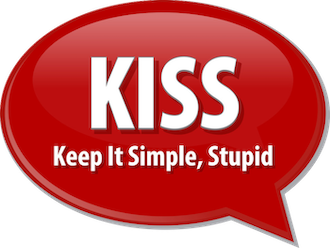
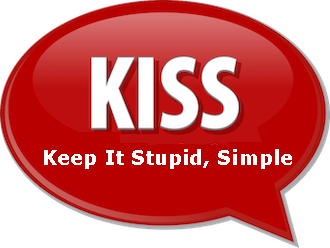
added grid page isotopes

Changed region(s): [[0.1212, 0.5645, 0.9091, 0.7056], [0.303, 0.5081, 0.3333, 0.5645]]

diff --git a/layouts/blog-grid/list.html b/layouts/blog-grid/list.html
@@ -2,98 +2,80 @@
 <html lang="en">
 <head>
     <meta charset="utf-8" />
-    <title>Blog</title>
+    <title>Blog Grid</title>
     <meta name="description" content="" />
     <meta name="viewport" content="width=device-width, initial-scale=1.0" />    
     <!-- CSS Files -->
     <link rel="stylesheet" href="/plugin/bootstrap/css/bootstrap.min.css" />
     <link rel="stylesheet" href="/plugin/font-awesome/css/font-awesome.min.css" />
     <link rel="stylesheet" href="/css/style.css" />
-    <link rel="stylesheet" href="/plugin/animate.min.css" />
+    <link rel="stylesheet" href="/css/animate.min.css" />
 </head>
 <body>
-
-    {{ partial "header.html"  }}
-
+    {{partial "header.html" . }}
+    
     <div class="page-header">
         <div class="container">
             <div class="row">
                 <div class="col-md-7">
-                    <h1>Blog List</h1>
+                    <h1>Blog Grid View</h1>
                 </div>
                 <div class="col-md-5">
                     <ol class="breadcrumb pull-right">
                         <li><a href="/">Home</a></li>
-                        <!--li><a href="#">About</a></li-->
                         <li class="active">Blog</li>
                     </ol>
                 </div>
             </div>
         </div>
     </div>
-
-
-    <section class="content content-light  videos-list videos-list-list">
+    
+    <!-- Video list boxes: grid -->
+    <section class="content content-light  videos-list videos-list-grid">
         <div class="container">
-            {{ partial "category-filter.html" . }}
-            
-            <hr class="invisible" />
-            <hr class="invisible" />
-
-            <div class="isotope-grid">
-                {{ $Paginator := .Paginate (where .Site.RegularPages "Type" "blog") }}
-                {{ range $Paginator.Pages }}
-                <article class="col-md-4 video-item {{ if .Params.categories }}{{ range .Params.categories }} {{ lower . | urlize}} {{ end }} {{ end }}" >
-                    <a href="{{.Permalink}}">
-                        {{ with .Params.featured_image }}<img src="{{ . }}" alt="" class="img-rounded blog-img img" width="300px" height="auto" />{{ end }}
-                    </a>
-                    <h3 class="video-title"><a href="{{.Permalink}}">{{.Title}}</a></h3>
-                    <div class="row video-params">
-                        <div class="col-md-12">
-                            Author: <b>{{.Params.Author}}</b>
-                        </div>
-                    </div>
-                    <div class="row video-params">
-                        <div class="col-md-12">
-                            Date: <b>{{ dateFormat "Jan 2, 2006" .Date }}</b>
-                        </div>
-                    </div>
-                    <div class="row video-params">
-                        <div class="col-md-12">
-                            Category: <b>{{ if .Params.categories }}{{ range .Params.categories }} {{ . }}, {{ end }} {{ end }}</b>
-                        </div>
-                    </div>
-                </article>
-                {{ end }}
+            <div class="pull-right list-view-change">
+                <a href="/blog-grid" class="active"><i class="fa fa-th-large"></i> Grid view</a>
+                <a href="/blog"><i class="fa fa-th-list"></i> List view</a>
             </div>
-
-            {{ $pag := $.Paginator }}
-            {{ if gt $pag.TotalPages 1 }}
-            <ul class="pagination">
-                {{ if $pag.HasPrev }}
-                <li class=""><a href="{{ $pag.Prev.URL }}" ><i class="fa fa-angle-left"></i></a></li>
-                {{ end }}
-                
-                {{ range $pag.Pagers }}
-                {{ if eq . $pag }}
-                <li class="active"><a href="{{ .URL }}">{{ .PageNumber }} <span class="sr-only"></span></a></li>
-                {{ else }}
-                <li><a href="{{ .URL }}">{{ .PageNumber }}</a></li>
-                {{ end }}
-                {{ end }}
-
-                {{ if $pag.HasNext }}
-                <li><a href="{{ $pag.Next.URL }}"><i class="fa fa-angle-right"></i></a></li>
-                {{ end }}
-            </ul>
-            {{ end }}
+            <div class="filter" id="filters">
+                <a class="btn btn-theme navbar-btn btn-orange" data-filter="*">All</a> &nbsp; 
+                {{range $name, $taxonomy := where .Site.Taxonomies.categories "Type" "blog" }}
+                <a class="btn btn-theme navbar-btn btn-lightblue" data-filter=".{{$name}}">{{ humanize $name }}</a>   
+                {{ end }}             
+            </div>
             
-        </div>
+            <hr class="invisible" />
+            <hr class="invisible" />
+
+            <div class="row isotope-grid">
+            {{ range $i,$b := where .Site.RegularPages "Type" "blog" }}
+                <article class="col-md-4 video-item {{ if .Params.categories }}{{ range .Params.categories }} {{ lower . | urlize}} {{ end }} {{ end }}" data-category="{{ if .Params.categories }}{{ range .Params.categories }} {{ lower . | urlize}} {{ end }} {{ end }}">
+                        <a href="{{.Permalink}}">
+                            {{ with .Params.featured_image }}<img src="{{ . }}" alt="" class="img-rounded blog-img img" width="300px" height="auto" />{{ end }}
+                        </a>
+                        <h3 class="video-title"><a href="{{.Permalink}}">{{.Title}}</a></h3>
+                        <div class="row video-params">
+                            <div class="col-md-12">
+                                Author: <b>{{.Params.Author}}</b>
+                            </div>
+                        </div>
+                        <div class="row video-params">
+                            <div class="col-md-12">
+                                Date: <b>{{ dateFormat "Jan 2, 2006" .Date }}</b>
+                            </div>
+                        </div>
+                        <div class="row video-params">
+                            <div class="col-md-12">
+                                Category: <b>{{ if .Params.categories }}{{ range .Params.categories }} {{ . }}, {{ end }} {{ end }}</b>
+                            </div>
+                        </div>
+                </article>  
+            {{ end }}
+            </div>
+        </div>        
     </section>
-
-    {{ partial "footer.html"  }}
-
-
+    
+    {{partial "footer.html" . }}
     <!-- JavaScript Files -->
     <script src="/plugin/jquery-1.10.2.min.js"></script>
     <script src="/plugin/isotope.pkgd.min.js"></script>
@@ -117,7 +99,6 @@
         });   
     </script>
     <script src="/plugin/bootstrap/js/bootstrap.min.js"></script>
-    <script src="/script/animate.js"></script>
     <script src="/plugin/jquery.cuteTime.min.js"></script>
     <script src="/script/script.js"></script>
     <!-- / JavaScript Files -->

diff --git a/layouts/index.html b/layouts/index.html
@@ -6,10 +6,10 @@
     <meta name="description" content="" />
     <meta name="viewport" content="width=device-width, initial-scale=1.0" />    
     <!-- CSS Files -->
-    <link rel="stylesheet" href="plugin/bootstrap/css/bootstrap.min.css" />
-    <link rel="stylesheet" href="plugin/font-awesome/css/font-awesome.min.css" />
-    <link rel="stylesheet" href="css/style.css" />
-    <link rel="stylesheet" href="plugin/animate.min.css" />
+    <link rel="stylesheet" href="/plugin/bootstrap/css/bootstrap.min.css" />
+    <link rel="stylesheet" href="/plugin/font-awesome/css/font-awesome.min.css" />
+    <link rel="stylesheet" href="/css/style.css" />
+    <link rel="stylesheet" href="/plugin/animate.min.css" />
     <!-- / CSS Files -->
 </head>
 <body>
@@ -89,11 +89,11 @@
     
 
     <!-- JavaScript Files -->
-    <script src="plugin/jquery-1.10.2.min.js"></script>
-    <script src="plugin/bootstrap/js/bootstrap.min.js"></script>
-    <script src="script/animate.js"></script>
-    <script src="plugin/jquery.cuteTime.min.js"></script>
-    <script src="script/script.js"></script>
+    <script src="/plugin/jquery-1.10.2.min.js"></script>
+    <script src="/plugin/bootstrap/js/bootstrap.min.js"></script>
+    <script src="/script/animate.js"></script>
+    <script src="/plugin/jquery.cuteTime.min.js"></script>
+    <script src="/script/script.js"></script>
     <!-- / JavaScript Files -->
 </body>
 </html>

diff --git a/layouts/blog/single.html b/layouts/blog/single.html
@@ -43,7 +43,7 @@
                         <header>
                            {{ with .Params.featured_image }} <p class="blog-img"><img src="{{ . }}" alt="" class="img-rounded"  width="617px" height="auto" /></p>{{ end }}
                             <p class="blue-box blog-params">
-                                <span><i class="fa fa-calendar"></i> <time datetime="2013-01-10T21:01">{{ dateFormat "Monday, Jan 2, 2006" .Date }}</time></span>
+                                <span><i class="fa fa-calendar"></i> <time datetime="2013-01-10T21:01">{{ dateFormat "Jan 2, 2006" .Date }}</time></span>
                                 <span><i class="fa fa-user"></i> {{.Params.Author}}</span>
                                 <span><i class="fa fa-tags"></i>{{ if .Params.categories }}{{ range .Params.categories }} {{ . }}, {{ end }} {{ end }}
                             </p>

diff --git a/layouts/_default/single.html b/layouts/_default/single.html
@@ -9,7 +9,7 @@
 	<link rel="stylesheet" href="/plugin/bootstrap/css/bootstrap.min.css" />
 	<link rel="stylesheet" href="/plugin/font-awesome/css/font-awesome.min.css" />
 	<link rel="stylesheet" href="/css/style.css" />
-	<link rel="stylesheet" href="/css/animate.min.css" />
+	<link rel="stylesheet" href="/plugin/animate.min.css" />
 	<!-- / CSS Files -->
 	
     <!-- HTML5 shim and Respond.js IE8 support of HTML5 elements and media queries -->
@@ -44,6 +44,11 @@
     <script src="/plugin/bootstrap/js/bootstrap.min.js"></script>
     <script src="/plugin/jquery.cuteTime.min.js"></script>
     <script src="/script/script.js"></script>
+    <script type="text/javascript">
+     function send() {
+          document.getElementById("contactform").submit();
+        }
+    </script>
     <!-- / JavaScript Files -->
 </body>
 </html>

diff --git a/layouts/partials/header.html b/layouts/partials/header.html
@@ -19,7 +19,8 @@
                             {{ $active = or $active (eq .Name $currentPage.Title) }}
                             {{ $active = or $active (and (eq .Name "Blog") (eq $currentPage.Section "blog")) }}
                             {{ $active = or $active (and (eq .Name "Blog") (eq $currentPage.Section "categories")) }}
-                            <li  class="{{ if $active }} active {{ end }}"><a href="{{ .URL }}">{{ .Name }}</a></li>
+                            {{ $active = or $active (and (eq .Name "Blog") (eq $currentPage.Section "blog-grid")) }}
+                            <li  class="{{ if $active }} active {{ end }}"><a href="{{ .URL }}"><span>{{ .Name }}</span></a></li>
                         {{ end }}
                     </ul>
                 </div>

diff --git a/layouts/partials/category-filter.html b/layouts/partials/category-filter.html
@@ -4,8 +4,8 @@
             </div>
 
             <div class="filter" id="filters">
-                <a class="btn btn-theme navbar-btn btn-orange" href="/blog/">All</a> &nbsp; 
+                <a class="btn btn-theme navbar-btn btn-lightblue" href="/blog/" id="blog/">All</a> &nbsp; 
                 {{range $name, $taxonomy := where .Site.Taxonomies.categories "Type" "blog" }}
-                <a class="btn btn-theme navbar-btn btn-lightblue" href="/blog/categories/{{$name}}/" >{{ humanize $name }}</a>
+                <a class="btn btn-theme navbar-btn btn-lightblue" href="/blog/categories/{{$name}}/" id="blog/categories/{{$name}}/">{{ humanize $name }}</a>
                 {{ end }}               
             </div>

diff --git a/layouts/blog/list.html b/layouts/blog/list.html
@@ -106,11 +106,9 @@
     <script src="/plugin/jquery-1.10.2.min.js"></script>
     <script type="text/javascript">
         jQuery(document).ready(function($) {
-            path = window.location.pathname;
-            console.log("path=",path);
             $('#filters a').each(function() {
-                console.log("href=",$(this).attr("href"));
-                if ($(this).attr("href") == window.location.pathname) {
+                console.log("id=",$(this).attr("id"))
+                if (("/" + $(this).attr("id")) == {{.RelPermalink}} ) {
                     $(this).removeClass('btn-lightblue').addClass('btn-orange');
                 }
             });

diff --git a/content/blog/cooking-daily.md b/content/blog/cooking-daily.md
@@ -1,0 +1,77 @@
+---
+title: "10 Steps to Start a Daily Cooking Habit"
+date: 2014-11-13T04:05:02+05:30
+author: "
+A.D.S"
+featured_image: "/img/blog/cooking-daily.jpg"
+type: "blog"
+categories: ["Cooking"]
+draft: false
+---
+
+<p>It was 2010, I had just gotten out of a long-term relationship. I was a new bachelor, and moved in with a roommate for the first time in my life. Our apartment was in an area of town that is still among my favorites. Great restaurants. Great neighborhood bars and cafes. I didn’t need a car to get around. I lived in that apartment for a year, and it was one of the most fun years of my life.</p>
+<p>If you’ve ever been in a similar situation, though, you can probably guess that it was also the most expensive, and least healthy year of my life.</p>
+<p>One day, after over six months of living together, my roommate came home to unusual sounds in the kitchen.</p>
+<p>“What are you doing?” he asked.
+</p>
+<p>“What does it look like I’m doing? I’m making dinner,” I replied.</p>
+<p>With a bizarre look on his face, my roommate said, “I didn’t even know you knew how to turn on the stove.”
+</p>
+<p>After having lived together for over six months, my roommate didn’t even know I knew how to operate a stovetop. The revelation shocked me as much as him, and suddenly, the hole that seemed to have appeared in my bank account, and the inches that had added themselves to my waistline made sense.</p>
+<p>I knew I needed to make a change. But it didn’t happen over night.</p>
+
+<h2>Why You Should Cook More</h2>
+<p>I have never been an unhealthy eater. I don’t have a sweet tooth, and I don’t avoid green things. As such, even when I wasn’t doing any of my own cooking, I still sought out “good” food. However, as it turns out, no matter how “good” the food you think you’re getting at restaurants, or pre-prepared at the grocery store, is, it can never match the health benefits of anything you cook at home. Pre-prepared foods are loaded with preservatives, and restaurant meals generally use much more salt and fats than you would normally use at home. There’s a number of places where you can read about the benefits of cooking at home, but I’d suggest starting with just about anything by Michael Pollan.
+</p>
+<p>If reading an entire book doesn’t tickle your fancy, check out this short video put together by the RSA, based on Pollan’s work. The video succinctly describes the differences between the way individuals cook, and the way corporations cook.</p>
+
+<h2>How You Can Cook More</h2>
+<p>Answering why you should cook more is easy. And chances are, if you’re reading this, it’s because you already realize that you should be cooking more. The real question for most of us is, how do I get started? Well, that’s why we’re here.</p>
+
+<h3>1. Figure out the real reason you’re not cooking</h3>
+<p>As with most habits, the real work starts with a little bit of introspection. Most people I’ve spoken to who don’t cook cite one of the following two reasons for not cooking: either they don’t have time, or they don’t know how. In 2010, I would have claimed the former. And yet, somehow, years later, with even less free time on my hands, I still manage to eat home cooked meals six days a week.</p>
+<p>No, when I really started thinking about it, the real reason I wasn’t cooking wasn’t that I didn’t have the time, it was that I wasn’t prepared to cook. Before you start cooking, you have to first know what you’re going to cook. And then you have to buy the ingredients that go into that recipe. For the most part, when I wasn’t cooking, I skipped those two steps, and so I would get home, open the cupboards, wonder what to make, and after already having put in a long day at work, I was saddled with the mentally taxing challenge of figuring out what to make with what I had.</p>
+<p>The undue stress of going through that exercise was enough to make me give up, and walk around the corner for a burger or a burrito, or to heat up a frozen pizza.
+You see, the issue wasn’t that I didn’t like to cook, or that I didn’t know how to cook, or even that I didn’t have the time to cook. Rather, the issue was that there were steps leading up to cooking that I just hadn’t done, which made the process of cooking that much more difficult.
+It’s the equivalent of trying to create a daily workout routine, but every day, you need to decide which gym you’re going to go to, what exercises to do, oh, and you’ll need to learn the movements on the fly. No one ever got a six-pack that way.</p>
+
+<h3>2. Address the Issue</h3>
+<p>Now that you know the real reason you’re not cooking on a daily basis, address it. For me, it was just a matter of creating a weekly routine.</p>
+<p>Now, every Saturday, I plan out which meals I’m going to be having for the week, and then write out a grocery list for the coming week. The whole process used to take about twenty minutes when I first started out, but with repetition, I’ve now got it down to less than ten. On Sunday, I’ll head to the grocery store, list in hand, and because I already know what I need to get, can be in and out of the store in under 30 minutes.</p>
+<p>If the issue is the cooking itself, find easy 30-minute recipes. These days, there are so many cooking resources, that recipes have timing, and level of difficulty associated to each. Start with a handful of recipes and repeat them regularly to get the hang of them. That’s how you learn to cook. And keep a library of recipes, that way over time, you don’t need to go scouring the internet for meal ideas, but you can return to your tried, tested and true recipes.</p>
+<p>If you need a little help getting started, you have a few options that exist today that didn’t exist when I first wrote this article 4 years ago. Meal prep services like Blue Apron (and a slew of other ones) do away with the need to find the recipe, plan your week, and do groceries. You get a box every week, and all you need to do is follow instructions. There is no easier way to start building the cooking habit.</p>
+
+<h3>3. Start small</h3>
+<p>As with any new habit, the key is to start small. Most people fail at exercising, because they can’t go from couch potato to an hour in the gym every day right off the bat. That’s normal, you need to work your way up to that level.</p>
+<p>Same for cooking. If you currently don’t cook at all, start off by cooking once per week. Over time, as you get more comfortable, increase to twice a week, and so on. Otherwise, the enormity of changing your habit to go from never cooking at all, to cooking daily will be too much of a shock to your system.
+</p>
+
+<h3>4. Make larger portions and have leftovers</h3>
+<p>Our ancestors didn’t have the luxury of refrigeration. We do. That can cut your cooking time in half for the week.
+When you start off cooking once per week, make enough that you’ll be able to have leftovers for a second day of the week. No, you’re not cooking daily, but suddenly, you are eating homemade meals two out of seven days of the week.</p>	
+<p>Some people recommend cooking for the entire week on Sunday. I’m not a fan of this approach because it gives you such a major block of responsibilities for a single day that you’ll be hesitant to work on it. However, cooking once and eating twice is a really easy way to be a little more efficient.</p>
+
+<h3>5. Grow slowly</h3>
+<p>When you start cooking, you’ll feel like you’re cheating if you’re only cooking once per week, and you’ll want to immediately start trying to cook daily. You’re not cheating, you’re just succumbing to the same reflex that tells us that going to the gym isn’t worth it unless we do it every single day for an hour. In truth, every incremental bit helps.</p>
+<p>So, instead of risking burning out (no pun intended), slowly increase the number of days per week that you’re cooking. Remember that you started with barely ever eating home cooked meals, so even eating them twice per week is already a big win, and every additional step is another win.</p>
+
+<h3>6. Start with food that you enjoy</h3>
+<p>One of the main motivators for cooking at home is getting healthier. Because of this, there’s a tendency to want to launch into your new cooking habit by cooking the healthiest meals you can find. While I won’t discourage healthy cooking, I will say that for most beginners, “healthy” meals are usually not as appetizing as less healthy alternatives. Recall that if you’re used to eating restaurant or pre-prepared food, your tastebuds are used to foods with lots of salts and lots of fats. Moving from that to a diet of Brussels sprouts and lentils is a difficult move.</p>
+<h3>7. Share it with others</h3>
+<p>One of the toughest parts about getting motivated to cook for yourself is cooking for one. Cooking for multiple people encourages you to put in the time to prepare a good and nutritious meal. That doesn’t mean that if you’re single, you should immediately head to a dating site and start looking for a significant other for the sole purpose of cooking for them (although that might be a good dating profile).</p>
+<p>Instead, there are plenty of people in your life who would be happy to share a meal with you. Instead of meeting those people at restaurants or for coffee, like you’re likely already doing, invite them over for dinner and show off your newfound cooking skills. In the beginning, I would suggest inviting over only those that you’re comfortable having some missteps in front of, but as time goes on, your confidence will grow, and you’ll be making new friends all over town when people find out you’ll feed them.</p>
+
+<h3>8. Enjoy the process</h3>
+<p>One of the biggest mental shifts that happened when I went from never cooking, to cooking regularly was that cooking went from a chore, to something I actually enjoyed doing. And as with anything I enjoy doing, I wanted to share my experiences with people. Yes, cooking is a solo activity, but at the same time, foodie culture has become so pervasive, that you can share your cooking with the world, and it can become an activity that you discuss, share and enjoy with friends. So, forget how dorky you feel doing it, and feel free to post that casserole you just made to Instagram, Facebook and anywhere else foodies reside.
+</p>
+
+<h3>9. Appreciate the benefits</h3>
+<p>You know what the biggest motivator of continuing a new habit is? Appreciating the benefits. So, as you get into your habit of cooking at home, make sure you stop at some point to take the time to appreciate all the good that has come of it. Appreciate the look of that slimmer waistline in the mirror. Enjoy the better sleep, increased focus and energy, and general well being that comes with having a healthier diet. And perhaps most rewardingly of all, count the extra dollars in your bank account that have accumulated from no longer eating out all the time!
+</p>
+
+<h3>10. Pass it along</h3>
+<p>Now that you’ve developed this new habit, and you appreciate all the benefits that come with it, what better way to stay motivated than to share your newfound joy with those around you? Cook for them. Teach them how to cook. Share recipes with them. In my experience, no one ever says no to a free meal. The side benefit to this is if the cooking craze catches on in your circle of friends, you will start getting invited over to other people’s places for home cooked meals. Now, you have all the benefits of eating home cooked meals even more often, and even less work to do!</p>
+
+<h2>In short…
+</h2>
+<p>Building a new habit is never easy, and building a habit as complex as cooking is even harder. That said, by breaking it down into a few, smaller, easier to achieve steps, I know you can succeed. After all, if a hopeless case like me can do it, I’m sure you can too. You’ve already shown a willingness by reading this far, which is more motivation than most people have. So, give it a shot. The benefits are worth it, and once you get going, I bet you’ll even begin to enjoy it.</p>

diff --git a/content/blog/cook-meal.md b/content/blog/cook-meal.md
@@ -1,0 +1,19 @@
+---
+title: "COOK YOUR OWN MEALS"
+date: 2017-11-15T03:53:17+05:30
+author: "Matt Longmire
+"
+featured_image: "/img/blog/cook-meal.jpg"
+type: "blog"
+categories: ["Cooking"]
+draft: false
+---
+
+<p>
+	One of the best ways you can stick to your budget is to make your own food instead of eating out every night. If the average (reasonably healthy) dinner for two at a restaurant costs between $30 and $60 or more depending on where you live, multiply that by seven nights, and you’re now between $210 and $420. That’s for just one of your three meals a day.
+</p>
+<p>On the other hand, if you can cook (even if it’s not great), the grocery bill for a family of four for seven days of breakfast, lunch, dinner, and snacks, can fall around $200 to $300 a week if you shop efficiently.
+</p>
+<p>If you’re like me and don’t believe you can cook anything more than a bowl of cereal, it’s worth it to take the time to learn and practice. You don’t have to go to culinary school, there are plenty of how-to videos on YouTube for free. Start small with slight modifications to things you can already make. If you know how to scramble some eggs, try experimenting with seasonings or maybe add a little ham and cheese to the mix. You can even build a foundation by practicing basics such as soft-boiling an egg or baking a potato without worrying about an entire meal. Of course, if you want to take a cooking class, it can be a fun experience for you and a friend or partner.</p>
+<p>Whether you can cook or not, it’s important to remember that when you buy groceries to prepare your own meals, plan ahead. If you just buy the ingredients you need for one meal, it’s tremendously more expensive than if you plan on using similar ingredients for multiple meals and can spread the cost. This also helps reduce waste because using a bulb of garlic across the whole week means you don’t just use one or two cloves and let the rest go bad. Make a weekly calendar of meals and see if you can find different ways to use the same ten to twenty ingredients</p>
+<p>You can even spread the cooking workload by grilling more chicken than you need one night, so you cut up and refrigerate the rest for tomorrow’s lunch salad. A little planning goes a long way for both your wallet and your time.</p>

diff --git a/content/contact.md b/content/contact.md
@@ -15,7 +15,7 @@ draft: false
             <hr class="invisible" />
             
    <!-- Contact form -->
-  <form action="register.htm" class="contact-form" role="form">
+  <form action="/contact" method="post" class="contact-form" role="form" id="contactform">
                 <h2 class="title-form">Contact form</h2>
                 <div class="row">
                     <div class="col-md-6">
@@ -40,7 +40,7 @@ draft: false
                     </div>
                 </div>
                 <p class="text-right buttons-margin-horizontal">
-                    <input type="submit" class="btn btn-theme btn-green" value="Send message" />
+                    <input type="submit" class="btn btn-theme btn-green" value="Send message" onclick="send()" />
                 </p>
             </form>
             

diff --git a/content/habit/kiss.md b/content/habit/kiss.md
@@ -1,5 +1,5 @@
 ---
-title: "Keep It Simple Stupid"
+title: "Keep It Stupid Simple"
 date: 2020-04-06T11:52:52+05:30
 type: "habit"
 featured_image: "/img/habit/kiss.png"
@@ -8,4 +8,4 @@ weight: 3
 draft: false
 ---
 
-Hugo takes the parameters listed below into consideration when choosing a layout for a given page. They are listed in a priority order. This should feel natural, but look at the table below for concrete examples of the different parameter variations.
+Hugo is a static site generate with incredibly fast build times. You can create a simple blog, in minutes by writing basic markdown in hugo content files. Even with no frontend experience you can use a hugo theme or just write some basic html/css/js. 

diff --git a/content/habit/work-smart.md b/content/habit/work-smart.md
@@ -1,5 +1,5 @@
 ---
-title: "Working Smartly"
+title: "Work Smartly"
 date: 2020-04-06T11:52:38+05:30
 type: "habit"
 featured_image: "/img/habit/work-smart.png"
@@ -7,4 +7,4 @@ weight: 2
 draft: false
 ---
 
-Hugo takes the parameters listed below into consideration when choosing a layout for a given page. They are listed in a priority order. This should feel natural, but look at the table below for concrete examples of the different parameter variations.
+While creating a HUGO site you should work smartly, by understanding how the hugo framework works. Few hacks are okay to meet the project deadline but at the same time don't introduce any known bugs.
